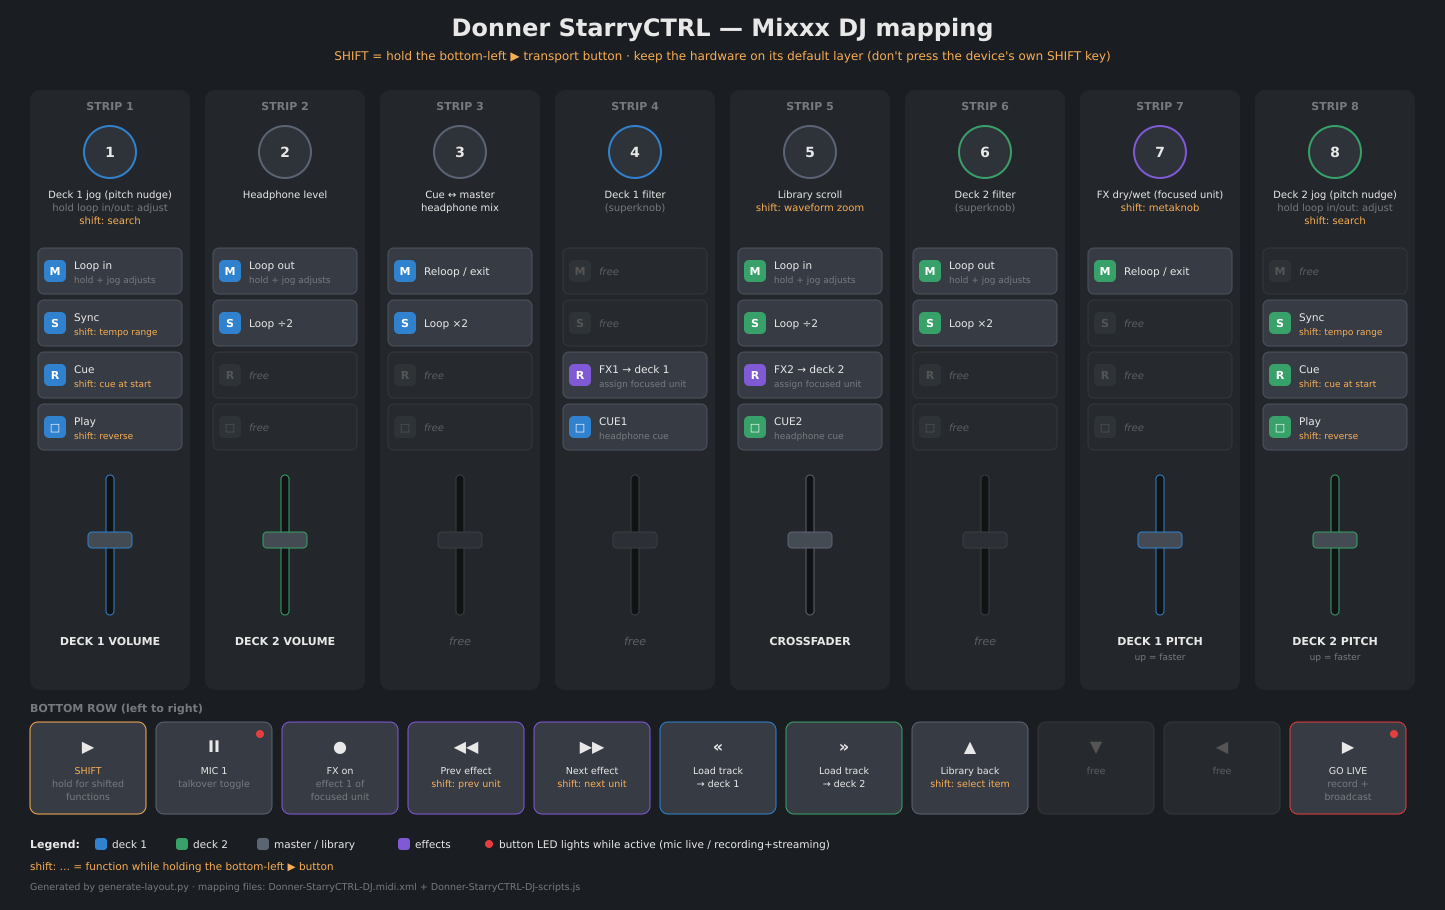
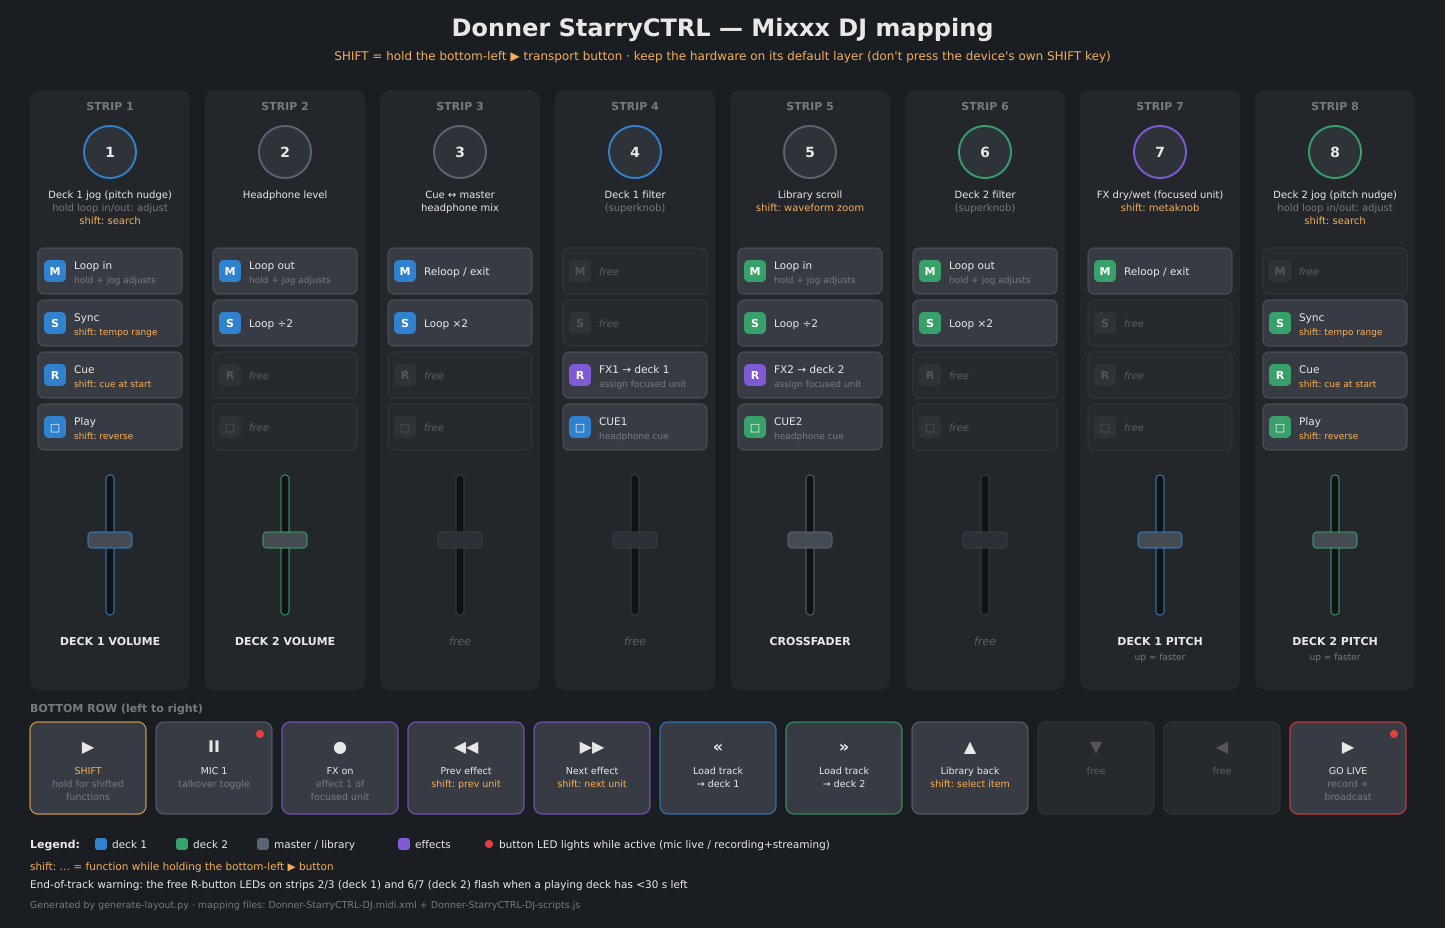
Fix end-of-track warning: stop on pause/track end, quiet LED traffic
playposition stops updating when a deck stops, so the flash timer kept
running after pause or track end; a "play" connection now shuts it off
(and re-arms it on resume inside the warning window). stopEndWarning is
also a no-op when inactive, so it no longer sends LED-off messages on
every position update. Document the warning in README and layout.

diff --git a/Donner-StarryCTRL-DJ-scripts.js b/Donner-StarryCTRL-DJ-scripts.js
@@ -112,10 +112,11 @@ StarryCTRL.startEndWarning = function(group) {
 };
 
 StarryCTRL.stopEndWarning = function(group) {
-    if (StarryCTRL.endWarningTimer[group]) {
-        engine.stopTimer(StarryCTRL.endWarningTimer[group]);
-        StarryCTRL.endWarningTimer[group] = 0;
+    if (!StarryCTRL.endWarningTimer[group]) {
+        return; // not active — avoid spamming LED-off on every position update
     }
+    engine.stopTimer(StarryCTRL.endWarningTimer[group]);
+    StarryCTRL.endWarningTimer[group] = 0;
     StarryCTRL.endWarningFlashState[group] = false;
     StarryCTRL.endWarningLeds[group].forEach(function(note) {
         StarryCTRL.sendLed(note, false);
@@ -168,6 +169,16 @@ StarryCTRL.init = function() {
             }),
             engine.makeConnection(group, "playposition", function(pos) {
                 StarryCTRL.checkEndWarning(group, pos);
+            }),
+            // playposition stops updating once the deck stops, so pause and
+            // track end are caught here to shut the warning off.
+            engine.makeConnection(group, "play", function(value) {
+                if (value > 0) {
+                    StarryCTRL.checkEndWarning(group,
+                        engine.getValue(group, "playposition"));
+                } else {
+                    StarryCTRL.stopEndWarning(group);
+                }
             })
         );
     });

diff --git a/generate-layout.py b/generate-layout.py
@@ -5,7 +5,7 @@ Run `python3 generate-layout.py` after changing the mapping and commit the
 regenerated layout.svg alongside it.
 """
 
-W, H = 1445, 910
+W, H = 1445, 928
 FONT = "DejaVu Sans, Verdana, Arial, sans-serif"
 
 # colors
@@ -202,7 +202,11 @@ text(lx + 14, ly, "button LED lights while active (mic live / recording+streamin
      10.5, TEXT, anchor="start")
 text(X0, ly + 22, "shift: … = function while holding the bottom-left ▶ button",
      10.5, SHIFT, anchor="start")
-text(X0, ly + 42,
+text(X0, ly + 40,
+     "End-of-track warning: the free R-button LEDs on strips 2/3 (deck 1) "
+     "and 6/7 (deck 2) flash when a playing deck has <30 s left",
+     10.5, TEXT, anchor="start")
+text(X0, ly + 60,
      "Generated by generate-layout.py · mapping files: "
      "Donner-StarryCTRL-DJ.midi.xml + Donner-StarryCTRL-DJ-scripts.js",
      9.5, DIM, anchor="start")

diff --git a/README.md b/README.md
@@ -65,6 +65,10 @@ the bottom-left ▶ transport button.
 | 7 (deck 2) | Reloop/exit | free | free | free |
 | 8 (deck 2) | free | Sync · *shift: tempo range* | Cue · *shift: cue at start* | Play · *shift: reverse* |
 
+The free R-button LEDs on strips 2/3 (deck 1) and 6/7 (deck 2) double as
+an end-of-track warning: they flash while a playing deck has less than
+30 seconds left (`endWarningSecs` / `endWarningFlashMs` in the script).
+
 ### Bottom row (left to right)
 
 | Button | Function | Shift |